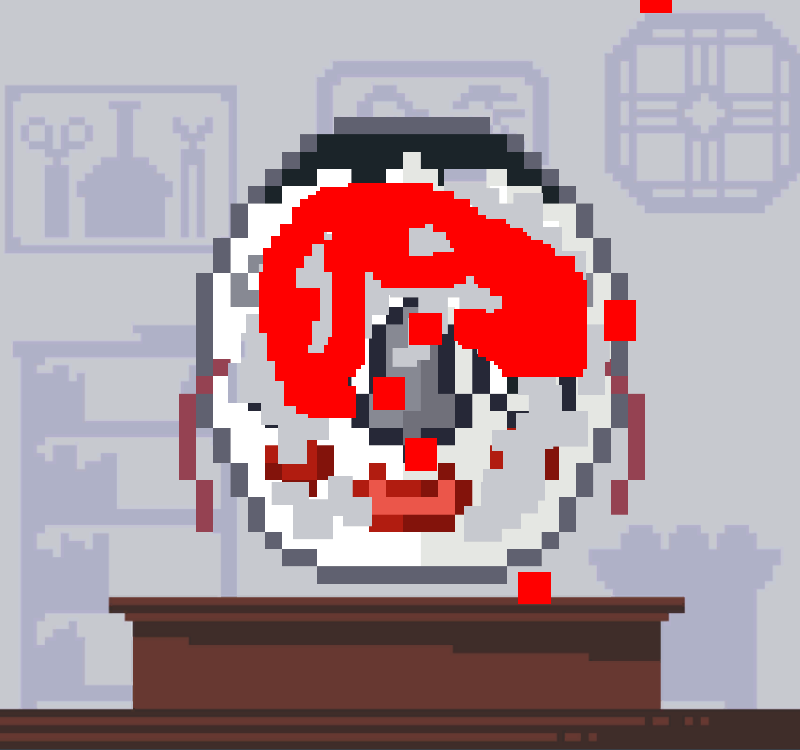
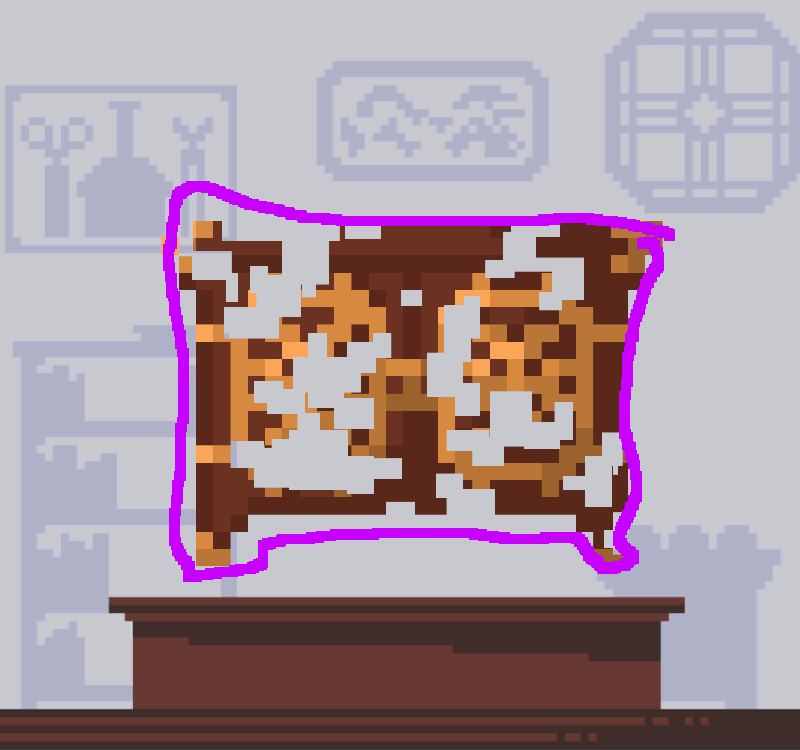
여태까지 적용 사항들
수정할 것 있으시면 수정하시면 될듯합니다.
개인적은 생각으로 그 기능들을 다 구현한다면 아마 전시기간전에는 하기 어려울수도 있을거에요.

Changed region(s): [[0.1875, 0.1533, 0.8438, 0.828], [0.7812, 0.0, 0.8438, 0.0307]]

diff --git a/Assets/Scripts/SO/ResultCanvas.cs b/Assets/Scripts/SO/ResultCanvas.cs
@@ -1,11 +1,40 @@
 using System.Collections;
 using System.Collections.Generic;
 using UnityEngine;
+using UnityEngine.UI;
 
 public class ResultCanvas : MonoBehaviour
 {
+    [SerializeField]
+    private Button displayButton;
+    [SerializeField]
+    private GameObject displayTarget;
+    private int number = 0;
+    private void OnEnable()
+    {
+        displayButton.onClick.AddListener(() =>
+        {
+            DisplayBtClick();
+        });
+    }
+
+
     public void DisplayBtClick()
     {
         StackUIManagement.Instance.AddStack(gameObject);
+        
+        if(number < displayTarget.GetComponent<Displays>().displayPosList.Count)
+        {
+            var display = displayTarget.GetComponent<Displays>();
+            display.Display(display.displayPosList[number]);
+            number++;
+
+            //StackUIManagement.Instance.PopStack();
+            //StackUIManagement.Instance.PopStack();
+            //StackUIManagement.Instance.PopStack();
+            //StackUIManagement.Instance.PopStack();
+
+        }// set
+
     }
 }

diff --git a/Assets/Displays.cs b/Assets/Displays.cs
@@ -1,0 +1,20 @@
+using System.Collections;
+using System.Collections.Generic;
+using UnityEngine;
+using UnityEngine.UI;
+
+public class Displays : MonoBehaviour
+{
+    public List<Transform> displayPosList;
+    [SerializeField]
+    private GameObject displayPrefab;
+    private HandiCraft craft;
+    public void Display(Transform pos)
+    {
+        var target = Instantiate(displayPrefab, pos);
+        target.gameObject.transform.parent = pos.transform;
+        craft = CraftDataManager.Instance.ReturnCraftsData();
+        
+        target.GetComponent<DisplayTarget>().SetData(craft, craft.craftImage);
+    }
+}

diff --git a/Assets/DisplayTarget.cs b/Assets/DisplayTarget.cs
@@ -1,0 +1,17 @@
+using System.Collections;
+using System.Collections.Generic;
+using UnityEngine;
+using UnityEngine.UI;
+
+public class DisplayTarget : MonoBehaviour
+{
+    //[SerializeField] private Image sprite;
+    [SerializeField] private GameObject effect;
+    [SerializeField] private Image img;
+
+    public void SetData(HandiCraft handi, Sprite sprite)
+    {
+        img.sprite = handi.craftImage;
+        Instantiate(effect);
+    }
+}

diff --git a/Assets/Scripts/KIM/Menufacture.cs b/Assets/Scripts/KIM/Menufacture.cs
@@ -46,8 +46,6 @@ public class Menufacture : MonoBehaviour
 
     private void Exhibition()
     {
-
-
         handiCraft = CraftDataManager.Instance.ReturnCraftsData();
         //handiCraft.craftImage = Resources.Load<Sprite>("Result.png");
         if (handiCraft != null && craftName != null)

diff --git a/Assets/Scripts/KIM/SceneLoading.cs b/Assets/Scripts/KIM/SceneLoading.cs
@@ -15,7 +15,6 @@ public class SceneLoading : MonoBehaviour
         ManagementScene.Instance.UseCorutine();
         // async
         StartCoroutine(LoadAsyncScene());
-        //ManagementScene.Instance.EndCorutine();
     }
     IEnumerator LoadAsyncScene()
     {
